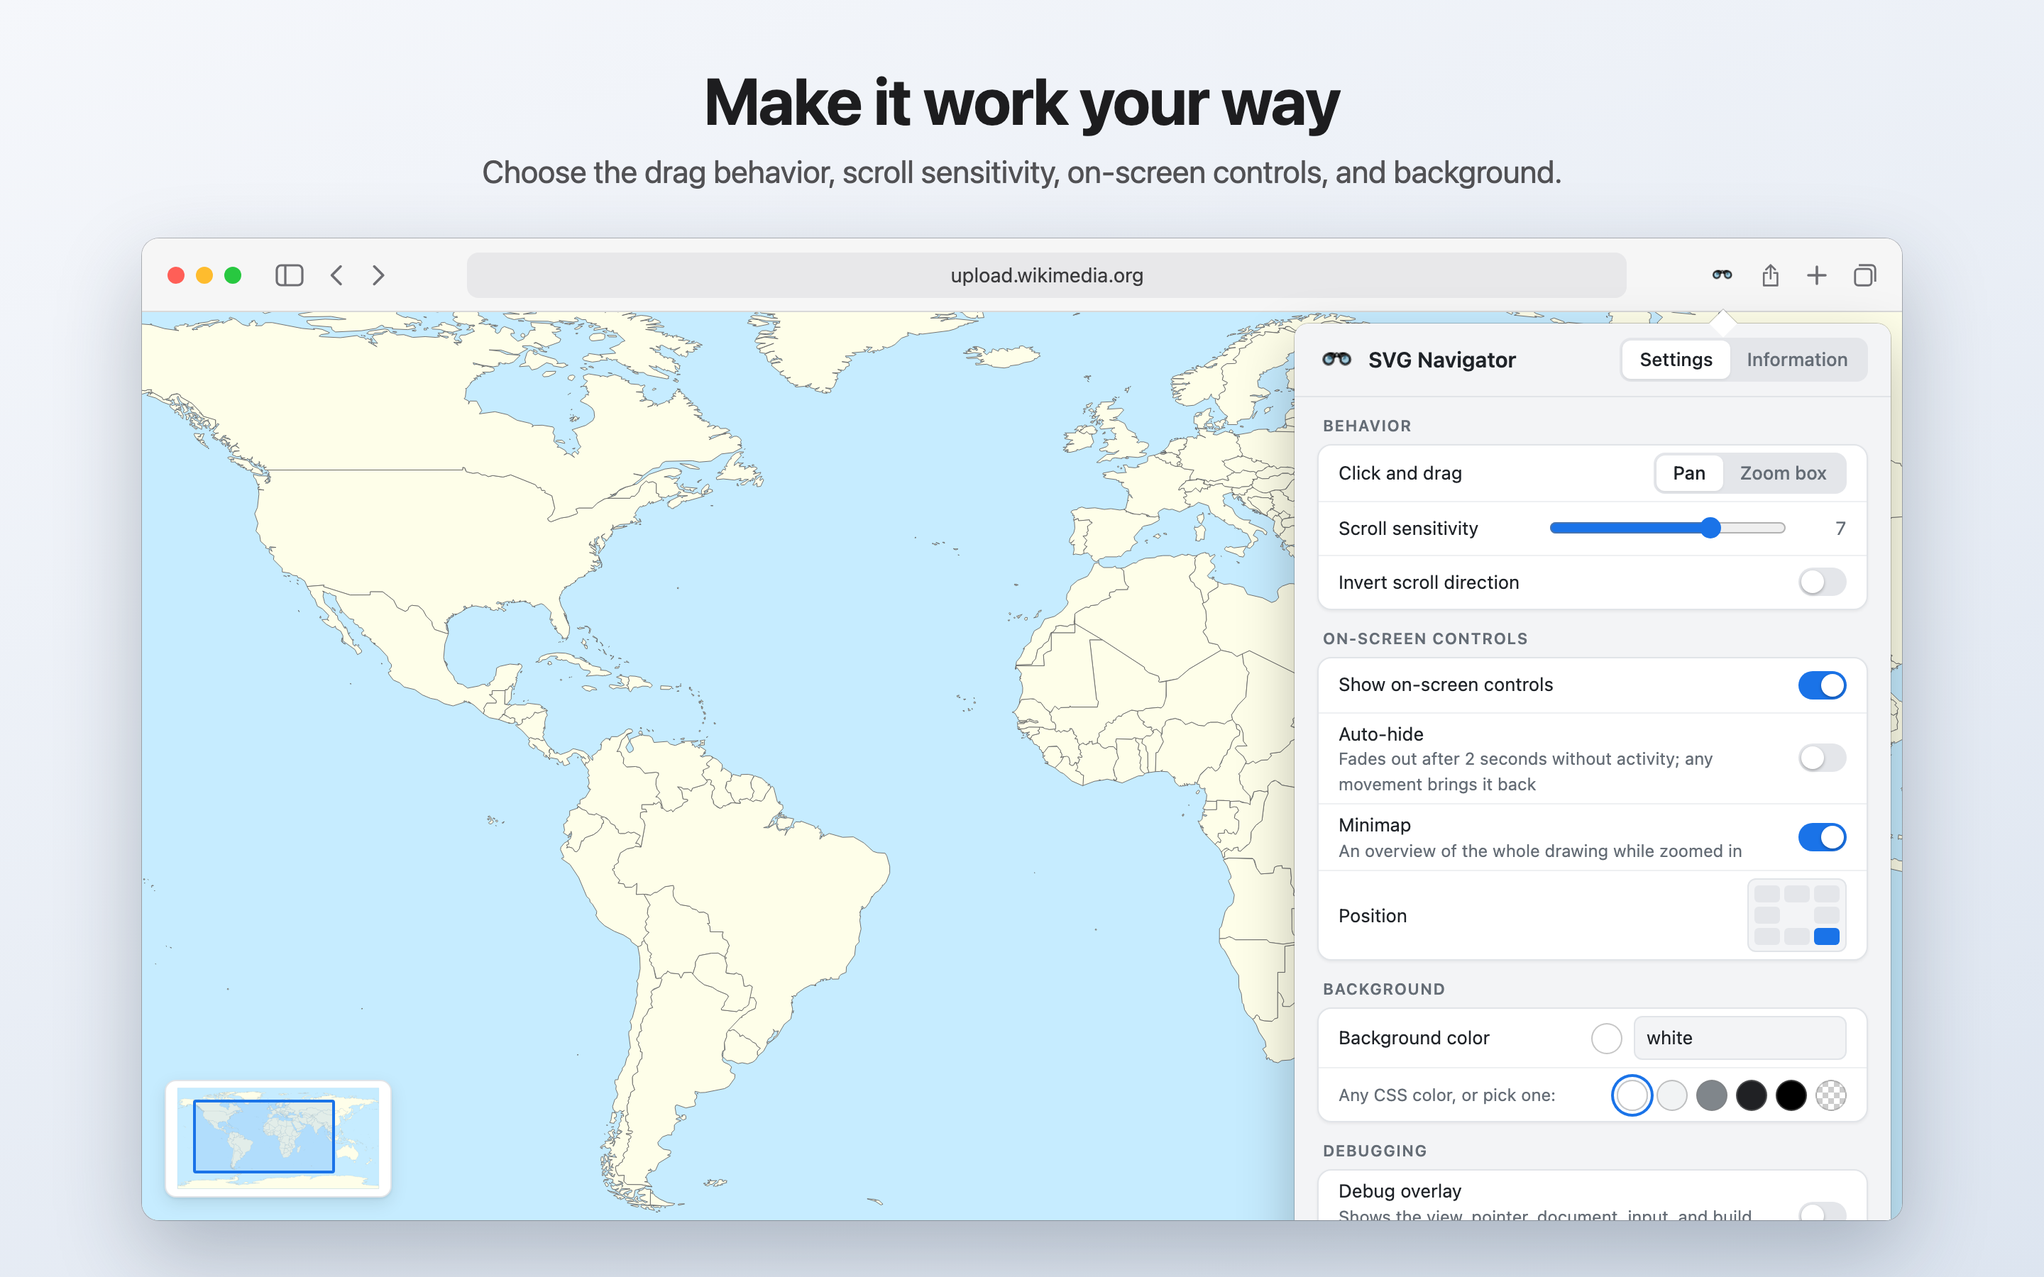
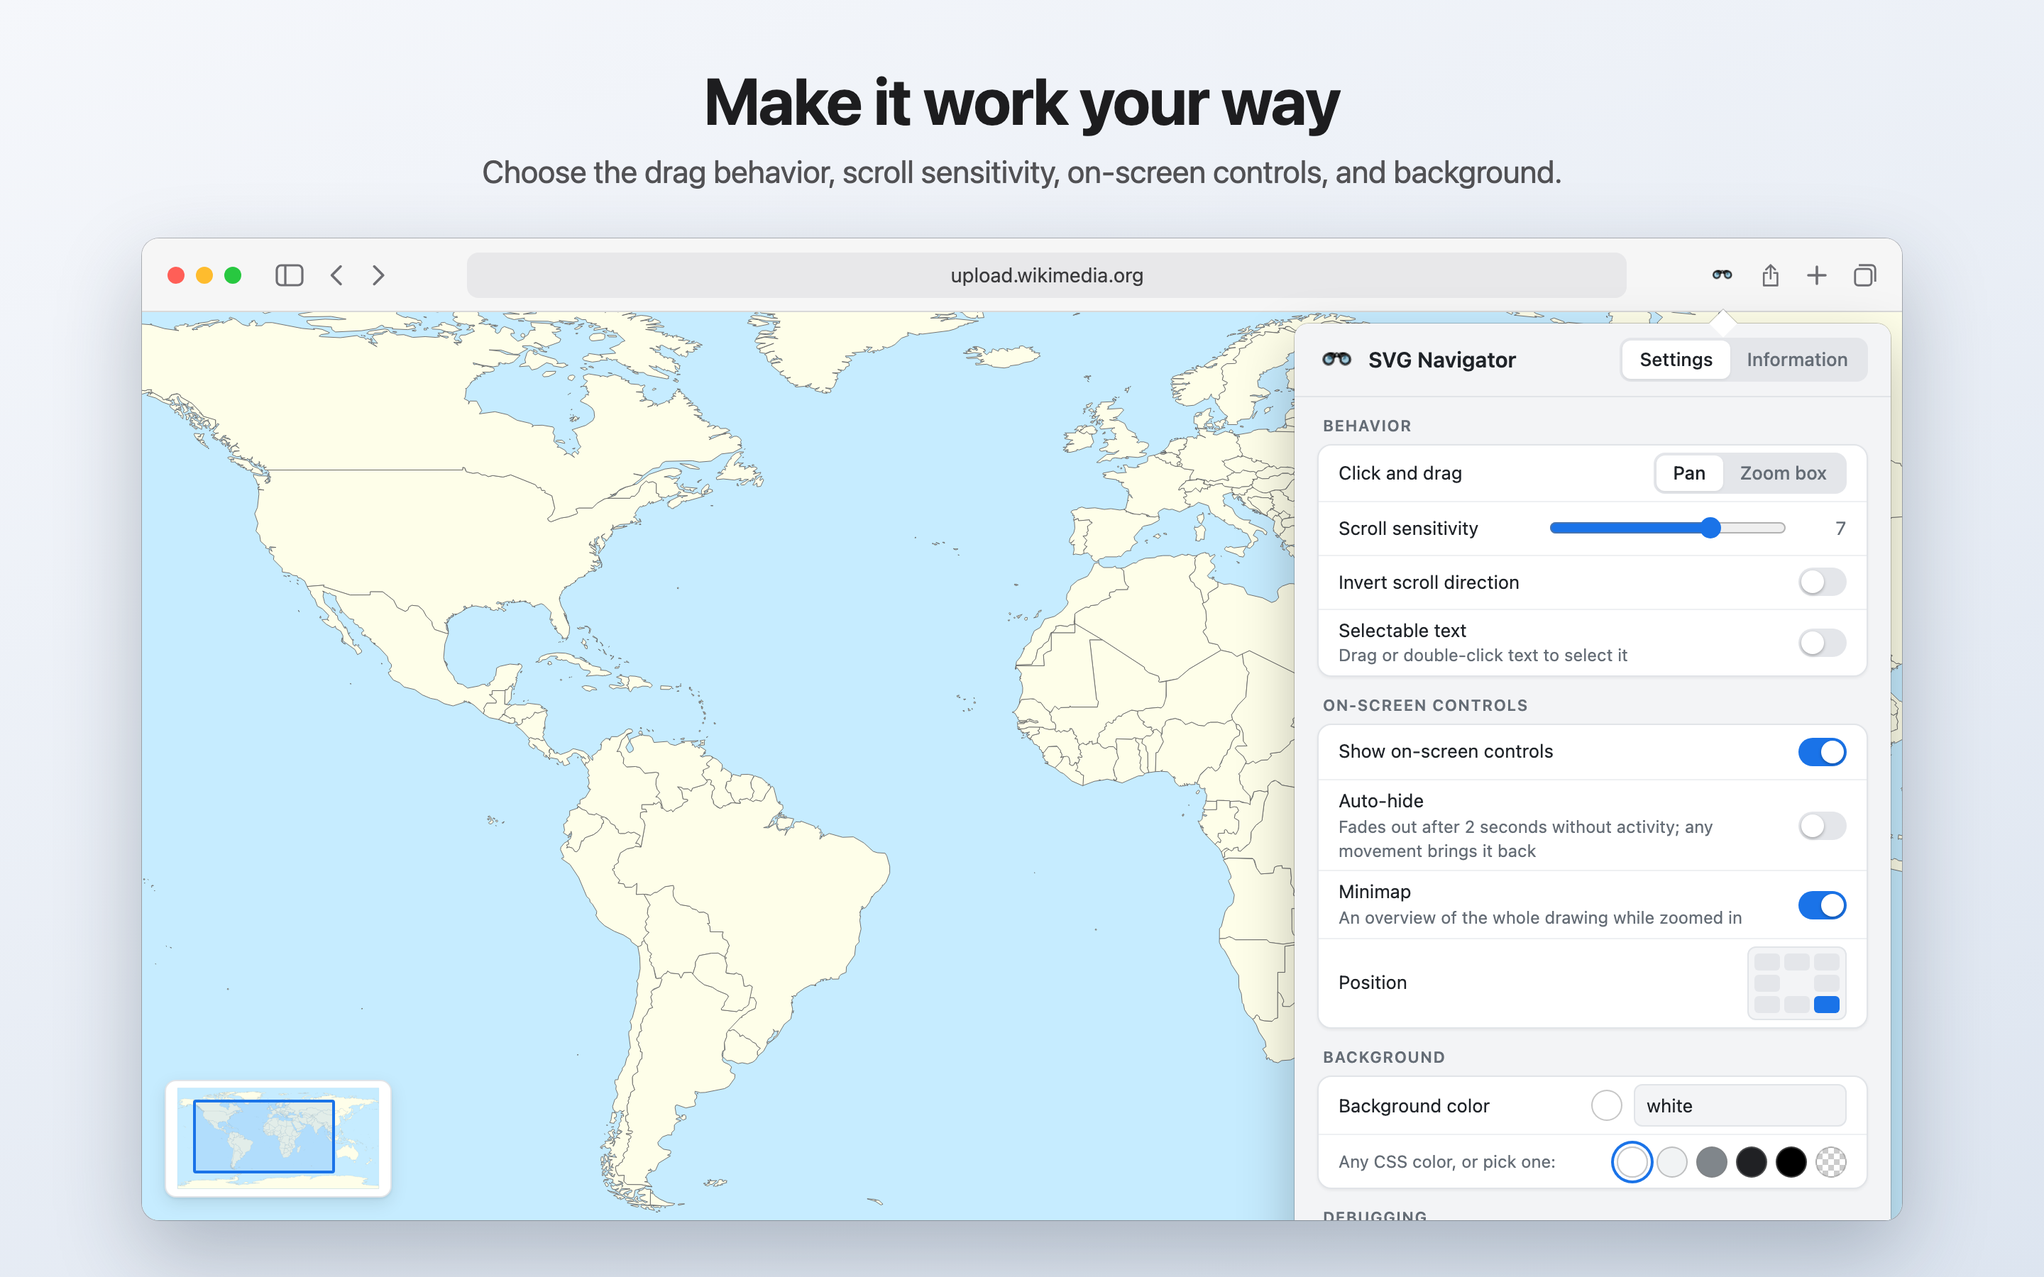
Add a Selectable text setting
With "Selectable text" on (off by default, in the Behavior card), a drag
or double-click that starts on the drawing's text selects it, as on an
ordinary page, and copying works as usual. A drag anywhere else still pans
or draws a zoom box, Space + drag pans even over text, and double-clicking
outside text still zooms. Text shows an I-beam cursor while it's on. The
setting applies live, without a reload.

Off by default, so dragging on labels in text-heavy diagrams keeps panning.

Fixes #32

Changed region(s): [[0.6562, 0.4667, 0.9062, 0.9644]]

diff --git a/test/e2e/selectableText.test.ts b/test/e2e/selectableText.test.ts
@@ -1,0 +1,140 @@
+/**
+ * Cross-browser UI tests for the Selectable text setting (#32): with it on, a drag or
+ * double-click that starts on text selects it; everywhere else the drawing still pans.
+ */
+
+import { describe, test } from 'node:test';
+import assert from 'node:assert/strict';
+import { BROWSERS, delay, getViewBox, waitForViewBoxChange } from './harness.ts';
+import { useExtensionSuite } from './suite.ts';
+
+/** Long enough for a stray pan or zoom to have landed. */
+const SETTLE_MS = 300;
+
+for (const browserName of BROWSERS) {
+    describe(browserName, () => {
+        const suite = useExtensionSuite(browserName);
+
+        /** The text's box on screen, inset a little so presses land on its glyphs. */
+        async function labelBox(): Promise<{ left: number, right: number, middle: number }> {
+            return suite.page.$eval('#label', (label) => {
+                const box = label.getBoundingClientRect();
+                return { left: box.left + 4, right: box.right - 4, middle: box.top + box.height / 2 };
+            });
+        }
+
+        async function drag(from: { x: number, y: number }, to: { x: number, y: number }): Promise<void> {
+            await suite.page.mouse.move(from.x, from.y);
+            await suite.page.mouse.down();
+            await suite.page.mouse.move(to.x, to.y, { steps: 8 });
+            await suite.page.mouse.up();
+        }
+
+        const selectedText = (): Promise<string> => suite.page.evaluate(() => getSelection()?.toString() ?? '');
+
+        test('with Selectable text on, dragging across text selects it instead of panning', async () => {
+            // Arrange
+            await suite.setSettings({ selectableText: true });
+            await suite.openSvg('/text.svg');
+            const before = await getViewBox(suite.page);
+            const { left, right, middle } = await labelBox();
+
+            // Act
+            await drag({ x: left, y: middle }, { x: right, y: middle });
+            await delay(SETTLE_MS);
+
+            // Assert
+            assert.match(await selectedText(), /Selectable words here/);
+            assert.deepEqual(await getViewBox(suite.page), before);
+        });
+
+        test('with Selectable text on and drag set to zoom box, dragging across text selects it', async () => {
+            // Arrange
+            await suite.setSettings({ selectableText: true, clickAndDragBehavior: 'zoomBox' });
+            await suite.openSvg('/text.svg');
+            const before = await getViewBox(suite.page);
+            const { left, right, middle } = await labelBox();
+
+            // Act
+            await drag({ x: left, y: middle }, { x: right, y: middle });
+            await delay(SETTLE_MS);
+
+            // Assert
+            assert.match(await selectedText(), /Selectable words here/);
+            assert.deepEqual(await getViewBox(suite.page), before);
+        });
+
+        test('with Selectable text off, dragging across text pans and selects nothing', async () => {
+            // Arrange
+            await suite.openSvg('/text.svg');
+            const before = await getViewBox(suite.page);
+            const { left, right, middle } = await labelBox();
+
+            // Act
+            await drag({ x: left, y: middle }, { x: right, y: middle });
+
+            // Assert
+            await waitForViewBoxChange(suite.page, before);
+            assert.equal(await selectedText(), '');
+        });
+
+        test('with Selectable text on, dragging from outside text still pans and selects nothing', async () => {
+            // Arrange
+            await suite.setSettings({ selectableText: true });
+            await suite.openSvg('/text.svg');
+            const before = await getViewBox(suite.page);
+            const { left, middle } = await labelBox();
+
+            // Act
+            await drag({ x: left, y: middle - 120 }, { x: left + 100, y: middle });
+
+            // Assert
+            await waitForViewBoxChange(suite.page, before);
+            assert.equal(await selectedText(), '');
+        });
+
+        test('with Selectable text on, double-clicking a word selects it without zooming', async () => {
+            // Arrange
+            await suite.setSettings({ selectableText: true });
+            await suite.openSvg('/text.svg');
+            const before = await getViewBox(suite.page);
+            const { left, middle } = await labelBox();
+
+            // Act
+            await suite.page.mouse.click(left + 20, middle, { count: 2 });
+            await delay(SETTLE_MS);
+
+            // Assert
+            assert.equal((await selectedText()).trim(), 'Selectable');
+            assert.deepEqual(await getViewBox(suite.page), before);
+        });
+
+        test('with Selectable text on, text shows a text cursor', async () => {
+            // Arrange
+            await suite.setSettings({ selectableText: true });
+
+            // Act
+            await suite.openSvg('/text.svg');
+
+            // Assert
+            assert.equal(await suite.page.$eval('#label', (label) => getComputedStyle(label).cursor), 'text');
+        });
+
+        test('turning Selectable text on applies without reloading', async () => {
+            // Arrange
+            await suite.openSvg('/text.svg');
+            const before = await getViewBox(suite.page);
+            const { left, right, middle } = await labelBox();
+
+            // Act
+            await suite.setSettings({ selectableText: true });
+            await suite.page.waitForFunction(() => document.documentElement.hasAttribute('data-svg-navigator-selectable-text'), { timeout: 5_000 });
+            await drag({ x: left, y: middle }, { x: right, y: middle });
+            await delay(SETTLE_MS);
+
+            // Assert
+            assert.match(await selectedText(), /Selectable words here/);
+            assert.deepEqual(await getViewBox(suite.page), before);
+        });
+    });
+}

diff --git a/src/js/input/pointer.ts b/src/js/input/pointer.ts
@@ -1,7 +1,8 @@
 /**
  * Mouse and wheel input on the drawing: drag to pan or to draw a zoom box, Space + move
  * to pan (gliding on after a quick release), the wheel or a trackpad pinch to zoom at the
- * pointer, and double-click to zoom 2× there. Owns the interaction state (at most one
+ * pointer, and double-click to zoom 2× there. With selectable text on, a press on text is
+ * left to the browser, which selects it. Owns the interaction state (at most one
  * pan or zoom box at a time) and the zoom box's rectangle; `svgNavigator.ts` supplies
  * the view through `PointerDeps`.
  */
@@ -10,6 +11,7 @@ import { SCROLL_SENSITIVITY_RANGE, type ClickAndDragBehavior } from '../../share
 import type { InteractionKind, WheelSample } from '../hud/debugInfo';
 import { doubleClickZoomFactor, isDrag, shouldZoomOnDoubleClick } from './doubleClick';
 import { GLIDE_MS, glideDistance, releaseVelocity, type PointerSample } from './momentum';
+import { isOnText } from './textSelection';
 import { wheelZoomFactor } from './wheelZoom';
 import {
     fitToAspectRatio,
@@ -42,6 +44,8 @@ export interface PointerDeps {
     /** The root `<svg>`, which receives the mouse and wheel events. */
     svg: SVGSVGElement;
     clickAndDragBehavior: ClickAndDragBehavior;
+    /** Read on every press, so the setting applies live. */
+    isTextSelectable: () => boolean;
     /** The view on screen, which drags and the wheel work from. */
     view: () => ViewBox;
     /** The view a discrete step builds on: the target of a step still easing in, if any. */
@@ -92,6 +96,9 @@ export function attachPointerInput(deps: PointerDeps): PointerInput {
 
     const toSvgPoint = (evt: MouseEvent, element: SVGGraphicsElement): DOMPoint =>
         clientToSvgPoint(svg, evt.clientX, evt.clientY, element);
+
+    // The browser selects text from this press, so the navigator stays out of the way.
+    const selectsText = (evt: MouseEvent): boolean => deps.isTextSelectable() && isOnText(evt.target);
 
     function setInteraction(next: Interaction): void {
         interaction = next;
@@ -150,7 +157,7 @@ export function attachPointerInput(deps: PointerDeps): PointerInput {
 
     function zoomBoxDown(evt: MouseEvent): void {
         // only a plain click (no ctrl or shift) outside a pan starts a zoom box
-        if(isPanning() || evt.ctrlKey || evt.shiftKey) { return; }
+        if(isPanning() || evt.ctrlKey || evt.shiftKey || selectsText(evt)) { return; }
 
         const start = toSvgPoint(evt, zoomRectangle);
         setInteraction({ kind: 'zoomBox', start });
@@ -217,7 +224,7 @@ export function attachPointerInput(deps: PointerDeps): PointerInput {
     }
 
     function doubleClickZoom(evt: MouseEvent): void {
-        if(evt.button !== 0 || interaction.kind !== 'idle') { return; }
+        if(evt.button !== 0 || interaction.kind !== 'idle' || selectsText(evt)) { return; }
         if(!shouldZoomOnDoubleClick(evt.timeStamp, maybeLastDragEndMs)) { return; }
         evt.preventDefault();
         deps.animateViewBox(zoomAroundPoint(deps.stepView(), toSvgPoint(evt, svg), doubleClickZoomFactor(evt.shiftKey)));
@@ -233,7 +240,9 @@ export function attachPointerInput(deps: PointerDeps): PointerInput {
         svg.addEventListener('mousemove', zoomBoxMove, false);
         svg.addEventListener('mouseup', zoomBoxUp, false);
     } else {
-        svg.addEventListener('mousedown', () => panBegin('mouse'), false);
+        svg.addEventListener('mousedown', (evt) => {
+            if(!selectsText(evt)) { panBegin('mouse'); }
+        }, false);
         document.addEventListener('mouseup', () => panEnd('mouse'), false);
     }
     svg.addEventListener('wheel', wheelZoom, { passive: false });

diff --git a/src/js/svgNavigator.ts b/src/js/svgNavigator.ts
@@ -41,11 +41,12 @@ import {
 import { mountHud, type HudHandle } from './hud/hud';
 import { keyAction, type KeyAction } from './input/keyActions';
 import { attachPointerInput, clientToSvgPoint, type PointerInput } from './input/pointer';
+import { isOnText, SELECTABLE_TEXT_ATTRIBUTE, SELECTABLE_TEXT_CSS } from './input/textSelection';
 import { maybeParseSvgViewFragment, ownsFragment, viewLink } from './viewFragment';
 import { listenForPageSwitch, readPageState, showOriginalSvg } from './offSwitch';
 import { createExporter, readAuthoredRoot } from './export/exporter';
 import { createViewAnimator } from './viewAnimation';
-import { HUD_HOST_TAG } from './hud/shadowHost';
+import { adoptStyles, HUD_HOST_TAG } from './hud/shadowHost';
 import {
     describeBrowser,
     type DebugInfo,
@@ -272,6 +273,9 @@ function applySetting(key: SettingKey): void {
     case 'minimapEnabled':
         hud.setMinimapEnabled(settings.minimapEnabled);
         break;
+    case 'selectableText':
+        showSelectableText();
+        break;
     case 'toolbarAutoHide':
         hud.setAutoHide(settings.toolbarAutoHide);
         break;
@@ -292,6 +296,7 @@ function addEventListeners(): void {
     pointer = attachPointerInput({
         svg: svgDocument,
         clickAndDragBehavior: settings.clickAndDragBehavior,
+        isTextSelectable: () => settings.selectableText,
         view: () => viewBox,
         stepView,
         showViewBox,
@@ -381,10 +386,16 @@ function getWidth(): number {
 }
 
 
-// to prevent selection of text; prevent text Ibar cursor when dragging
+// Dragging pans, so nothing is selected; with selectable text on, selections may start on text (#32).
 function disableSelection(): void {
-    document.onselectstart = function () {return false;};
+    document.onselectstart = (evt) => settings.selectableText && isOnText(evt.target);
     document.body.style.cursor = 'default';
+    adoptStyles(htmlDoc, document, SELECTABLE_TEXT_CSS);
+    showSelectableText();
+}
+
+function showSelectableText(): void {
+    document.documentElement.toggleAttribute(SELECTABLE_TEXT_ATTRIBUTE, settings.selectableText);
 }
 
 // Direct view changes (the wheel, a drag, a link) take over from any step still easing in.

diff --git a/src/shared/settings.ts b/src/shared/settings.ts
@@ -19,6 +19,8 @@ export interface Settings {
     clickAndDragBehavior: ClickAndDragBehavior;
     scrollSensitivity: number;
     invertScroll: boolean;
+    /** A drag or double-click that starts on text selects it instead of panning or zooming (#32). */
+    selectableText: boolean;
     toolbarAutoHide: boolean;
     toolbarEnabled: boolean;
     toolbarPosition: ToolbarPosition;
@@ -35,6 +37,7 @@ export const DEFAULT_SETTINGS: Readonly<Settings> = {
     clickAndDragBehavior: 'pan',
     scrollSensitivity: 7,
     invertScroll: false,
+    selectableText: false,
     toolbarAutoHide: true,
     toolbarEnabled: true,
     toolbarPosition: 'bottom-right',
@@ -52,6 +55,7 @@ const VALIDATORS: { [K in SettingKey]: (value: unknown) => value is Settings[K] 
     clickAndDragBehavior: (value): value is ClickAndDragBehavior => value === 'pan' || value === 'zoomBox',
     scrollSensitivity: (value): value is number => typeof value === 'number' && Number.isFinite(value),
     invertScroll: isBoolean,
+    selectableText: isBoolean,
     toolbarAutoHide: isBoolean,
     toolbarEnabled: isBoolean,
     minimapEnabled: isBoolean,

diff --git a/src/js/hud/shadowHost.ts b/src/js/hud/shadowHost.ts
@@ -41,7 +41,7 @@ export function createShadowHost(htmlDoc: Document, parent: HTMLElement, css: st
  * Prefers a constructed stylesheet, which no page Content-Security-Policy can block;
  * falls back to a `<style>` element only where an engine rejects it.
  */
-export function adoptStyles(htmlDoc: Document, root: ShadowRoot, css: string): void {
+export function adoptStyles(htmlDoc: Document, root: ShadowRoot | Document, css: string): void {
     try {
         const sheet = new CSSStyleSheet();
         sheet.replaceSync(css);
@@ -50,6 +50,7 @@ export function adoptStyles(htmlDoc: Document, root: ShadowRoot, css: string): v
         console.debug('SVG Navigator: constructed stylesheet rejected; using a <style> element', error);
         const style = htmlDoc.createElement('style');
         style.textContent = css;
-        root.prepend(style);
+        // A document holds a single root element; its stylesheet goes in the head.
+        (root instanceof Document ? root.head : root).prepend(style);
     }
 }

diff --git a/src/js/input/textSelection.ts b/src/js/input/textSelection.ts
@@ -1,0 +1,19 @@
+/**
+ * Selectable text (#32): with the setting on, a drag or double-click that starts on the
+ * drawing's text selects it, as on an ordinary page, instead of panning or zooming.
+ * `pointer.ts` leaves such presses alone; `svgNavigator.ts` lets the selection start
+ * and marks the page root so the text shows a text cursor.
+ */
+
+/** On the page root while text is selectable. */
+export const SELECTABLE_TEXT_ATTRIBUTE = 'data-svg-navigator-selectable-text';
+
+export const SELECTABLE_TEXT_CSS = `:root[${SELECTABLE_TEXT_ATTRIBUTE}] svg text { cursor: text; }`;
+
+/** Whether an event's target is the drawing's text: a `<text>`, its `<tspan>`s, or their characters. */
+export function isOnText(maybeTarget: EventTarget | null): boolean {
+    const maybeElement = maybeTarget instanceof Element ? maybeTarget
+        : maybeTarget instanceof Node ? maybeTarget.parentElement
+            : null;
+    return (maybeElement?.closest('text') ?? null) !== null;
+}

diff --git a/src/options/index.html b/src/options/index.html
@@ -54,6 +54,13 @@
                         <span class="row-label">Invert scroll direction</span>
                         <input type="checkbox" class="switch" role="switch" id="invertScroll">
                     </label>
+                    <label class="row">
+                        <span class="row-label">
+                            Selectable text
+                            <span class="row-hint">Drag or double-click text to select it</span>
+                        </span>
+                        <input type="checkbox" class="switch" role="switch" id="selectableText">
+                    </label>
                 </div>
 
                 <h2 class="section-title" id="toolbar-title">On-screen controls</h2>

diff --git a/src/options/options.ts b/src/options/options.ts
@@ -20,7 +20,7 @@ import { shortcutRows, type ShortcutPart } from '../shared/shortcuts';
 
 type BooleanSettingKey = { [K in SettingKey]: Settings[K] extends boolean ? K : never }[SettingKey];
 
-const SWITCH_KEYS = ['invertScroll', 'toolbarAutoHide', 'toolbarEnabled', 'minimapEnabled', 'showDebugInfo'] as const satisfies readonly BooleanSettingKey[];
+const SWITCH_KEYS = ['invertScroll', 'selectableText', 'toolbarAutoHide', 'toolbarEnabled', 'minimapEnabled', 'showDebugInfo'] as const satisfies readonly BooleanSettingKey[];
 
 const SAVED_NOTICE_MS = 1_500;
 const RESET_CONFIRM_MS = 4_000;

diff --git a/test/unit/settings.test.ts b/test/unit/settings.test.ts
@@ -76,3 +76,13 @@ describe('minimapEnabled', () => {
         assert.equal(parseSetting('minimapEnabled', 'off'), true);
     });
 });
+
+describe('selectableText', () => {
+    test('is off by default, so dragging on text pans', () => {
+        assert.equal(parseSettings({}).selectableText, false);
+    });
+
+    test('falls back to the default for a value that is not a boolean', () => {
+        assert.equal(parseSetting('selectableText', 'yes'), false);
+    });
+});

diff --git a/README.md b/README.md
@@ -34,6 +34,8 @@ Go to a website with an SVG file. The extension begins working on the SVG graphi
   sending the link opens that exact spot
 - Export: the download button saves the current view as a PNG (1×, 2×, or 4× its size on screen, with a
   transparent background), downloads or copies the SVG as authored, or copies a link to the view
+- Select text: turn on "Selectable text" in the settings, then drag or double-click on text to select it
+  and copy it as usual; dragging anywhere else still pans, and Space + drag pans even over text
 - Keyboard: arrow keys pan (hold Shift for bigger steps), + and − zoom (also with Ctrl or ⌘), F
   toggles full screen, and ? lists every shortcut
 - On-screen controls: zoom out, the zoom level (click it to reset), zoom in, background, full screen,
